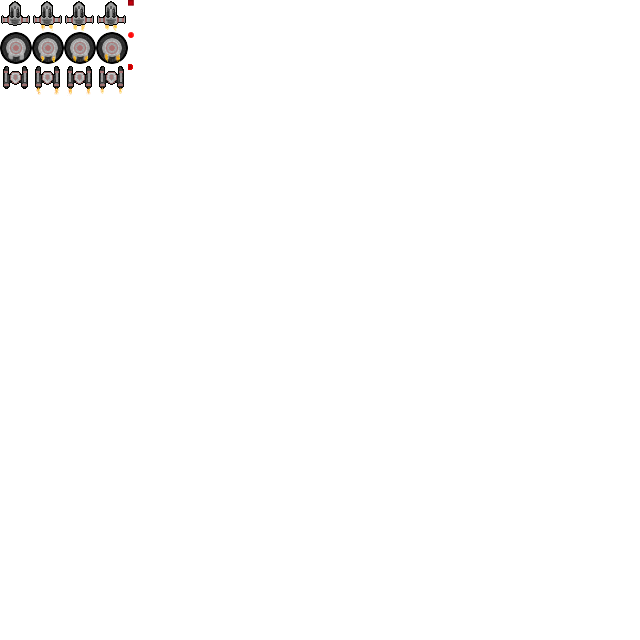
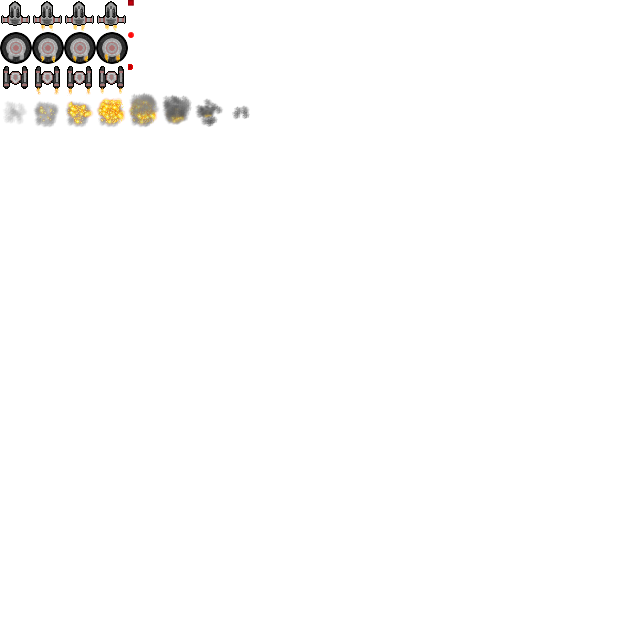
Explosions

Changed region(s): [[0.0, 0.125, 0.4062, 0.2188]]

diff --git a/projects/ld32/js/application/player.js b/projects/ld32/js/application/player.js
@@ -18,10 +18,12 @@ var Player = function(x, y) {
     
     this.frameMod = 10;
     this.curFrame = 1;
+    
+    this.dying = false;
 }
 
 Player.prototype.moveUp = function() {
-    if (this.y > 0) {
+    if (this.y > 0 && !this.dying) {
         if (this.yVelocity > 0) {
             this.yVelocity = 0;
         }
@@ -31,12 +33,10 @@ Player.prototype.moveUp = function() {
             this.yVelocity = -this.maxYVelocity;
         }
         this.y += this.yVelocity;
-    } else {
-        soundManager.play('blip');
     }
 }
 Player.prototype.moveDown = function() {
-    if (this.y < CANVAS_HEIGHT - 64) {
+    if (this.y < CANVAS_HEIGHT - 64 && !this.dying) {
         if (this.yVelocity < 0) {
             this.yVelocity = 0;
         }
@@ -46,12 +46,10 @@ Player.prototype.moveDown = function() {
             this.yVelocity = this.maxYVelocity;
         }
         this.y += this.yVelocity;
-    } else {
-        soundManager.play('blip');
     }
 }
 Player.prototype.moveLeft = function() {
-    if (this.x > 0) {
+    if (this.x > 0 && !this.dying) {
         if (this.xVelocity > 0) {
             this.xVelocity = 0;
         }
@@ -61,13 +59,11 @@ Player.prototype.moveLeft = function() {
             this.xVelocity = -this.maxXVelocity;
         }
         this.x += this.xVelocity;
-    } else {
-        soundManager.play('blip');
     }
 }
 
 Player.prototype.moveRight = function() {
-    if (this.x < CANVAS_WIDTH - 32) {
+    if (this.x < CANVAS_WIDTH - 32 && !this.dying) {
         if (this.xVelocity < 0) {
             this.xVelocity = 0;
         }
@@ -77,8 +73,6 @@ Player.prototype.moveRight = function() {
             this.xVelocity = this.maxXVelocity;
         }
         this.x += this.xVelocity;
-    } else {
-        soundManager.play('blip');
     }
 }
 
@@ -96,18 +90,33 @@ Player.prototype.draw = function(context, frame) {
     if (frame % this.frameMod == 0) {
         this.curFrame ++;
         
-        if (this.curFrame > 4) {
+        if (!this.dying && this.curFrame > 4) {
             this.curFrame = 1;
+        }
+        
+        if (this.dying && this.curFrame > 12) {
+            this.curFrame = 12;
         }
     }
     
-    if (this.yVelocity < 0) {
+    if (!this.dying && this.yVelocity < 0) {
         sprite += "-boost";
+    }
+    
+    if (this.dying) {
+        sprite += "-death";
     }
     
     if (this.curFrame > 0) {
         sprite += this.curFrame;
     }
-
-    spriteMapper.getImage(sprite).drawImage(context, this.x, this.y);
+    
+    if (!this.dying || this.curFrame <= 12) {
+        spriteMapper.getImage(sprite).drawImage(context, this.x, this.y);
+    }
+    
+    if (!this.dying && this.hp <= 0) {
+        this.dying = true;
+        this.curFrame = 0;
+    }
 }

diff --git a/projects/ld32/js/application/sprites.js b/projects/ld32/js/application/sprites.js
@@ -99,6 +99,20 @@ spriteMapper.addImage('player-boost2', 'player', 64, 64, 32, 64);
 spriteMapper.addImage('player-boost3', 'player', 96, 64, 32, 64);
 spriteMapper.addImage('player-boost4', 'player', 128, 64, 32, 64);
 
+spriteMapper.addImage('player-death', 'player', 0, 128, 32, 64);
+spriteMapper.addImage('player-death1', 'player', 32, 128, 32, 64);
+spriteMapper.addImage('player-death2', 'player', 64, 128, 32, 64);
+spriteMapper.addImage('player-death3', 'player', 96, 128, 32, 64);
+spriteMapper.addImage('player-death4', 'player', 128, 128, 32, 64);
+spriteMapper.addImage('player-death5', 'player', 160, 128, 32, 64);
+spriteMapper.addImage('player-death6', 'player', 192, 128, 32, 64);
+spriteMapper.addImage('player-death7', 'player', 224, 128, 32, 64);
+spriteMapper.addImage('player-death8', 'player', 256, 128, 32, 64);
+spriteMapper.addImage('player-death9', 'player', 288, 128, 32, 64);
+spriteMapper.addImage('player-death10', 'player', 320, 128, 32, 64);
+spriteMapper.addImage('player-death11', 'player', 352, 128, 32, 64);
+spriteMapper.addImage('player-death12', 'player', 384, 128, 32, 64);
+
 
 spriteMapper.addImage('asteroid', 'objects', 0, 0);
 spriteMapper.addImage('projectile', 'objects', 32, 0);
@@ -114,6 +128,18 @@ spriteMapper.addImage('rapidEnemy', 'enemies', 0, 64);
 spriteMapper.addImage('rapidEnemy1', 'enemies', 32, 64);
 spriteMapper.addImage('rapidEnemy2', 'enemies', 64, 64);
 spriteMapper.addImage('rapidEnemy3', 'enemies', 96, 64);
+
+spriteMapper.addImage('enemy-explosion0', 'enemies', 0, 96);
+spriteMapper.addImage('enemy-explosion1', 'enemies', 32, 96);
+spriteMapper.addImage('enemy-explosion2', 'enemies', 64, 96);
+spriteMapper.addImage('enemy-explosion3', 'enemies', 96, 96);
+spriteMapper.addImage('enemy-explosion4', 'enemies', 128, 96);
+spriteMapper.addImage('enemy-explosion5', 'enemies', 160, 96);
+spriteMapper.addImage('enemy-explosion6', 'enemies', 192, 96);
+spriteMapper.addImage('enemy-explosion7', 'enemies', 224, 96);
+spriteMapper.addImage('enemy-explosion8', 'enemies', 256, 96);
+
+
 spriteMapper.addImage('bullet1', 'enemies', 128, 0, 6, 6);
 spriteMapper.addImage('bullet2', 'enemies', 128, 32, 6, 6);
 spriteMapper.addImage('bullet3', 'enemies', 128, 64, 6, 6);

diff --git a/projects/ld32/js/application/game.js b/projects/ld32/js/application/game.js
@@ -8,6 +8,8 @@ var stars = [];
 var projectiles = [];
 var enemies = [];
 var bullets = [];
+var explosions = [];
+
 var enemySpawnTimer = 10;
 var projectileTimeout = [0, 0, 0];
 var projectileMaxTimeout = 60;
@@ -265,6 +267,10 @@ var playerRank = 0;
     }
     
     var handleAI = function() {
+        explosions.forEach(function(explosion, index) {
+            explosion.update(index);
+        })
+        
         enemies.forEach(function(enemy) {
             var chance = Math.random() * 100;
             if (chance < 1) {
@@ -342,7 +348,9 @@ var playerRank = 0;
                 if (!(p.x + 4 > e.x + 32 || p.x + 28 < e.x || p.y + 4 > e.y + 32 || p.y + 28 < e.y)) {
                     enemiesKilled[p.id] ++;
                     killProjectile(pIndex);
-                    killEnemy(eIndex);
+                    e.dying = true;
+                    var explosion = new Explosion(e.x, e.y, e.id);
+                    explosions.push(explosion);
                 }
             });
             
@@ -365,14 +373,16 @@ var playerRank = 0;
         });
         
         enemies.forEach(function(e, eIndex) {
-            if (!(e.x + 5 > player.x + 26 || e.x + 27 < player.x + 6 || e.y + 5 > player.y + 58 || e.y + 5 < player.y + 6)) {
+            if (!e.dying && !(e.x + 5 > player.x + 26 || e.x + 27 < player.x + 6 || e.y + 5 > player.y + 58 || e.y + 5 < player.y + 6)) {
                 player.hp -= 2;
                 enemiesKilled[5] ++;
-                killEnemy(eIndex);
+                e.dying = true;
+                var explosion = new Explosion(e.x, e.y, e.id);
+                explosions.push(explosion);
             }
         });
         
-        if (player.hp <= 0) {
+        if (player.hp <= 0 && player.curFrame >= 12) {
             // TODO: END GAME
         }
     }
@@ -410,6 +420,10 @@ var playerRank = 0;
         enemies.forEach(function(enemy) {
             enemy.draw(context, numRenders);
         });
+        
+        explosions.forEach(function(explosion) {
+            explosion.draw(context, numRenders);
+        })
         
         player.draw(context, numRenders);
         

diff --git a/projects/ld32/js/application/enemy.js b/projects/ld32/js/application/enemy.js
@@ -1,3 +1,5 @@
+var globalEnemyId = 0;
+
 var Enemy = function(x, y) {
     this.x = x;
     this.y = y;
@@ -6,10 +8,16 @@ var Enemy = function(x, y) {
     
     this.curFrame = 1;
     this.frameMod = 10;
+    this.dying = false;
+    
+    this.id = globalEnemyId;
+    globalEnemyId ++;
 }
 
 Enemy.prototype.move = function(index) {
-    this.y -= this.velocity;
+    if (!this.dying) {
+        this.y -= this.velocity;
+    }
     
     if (this.y < -50) {
         killEnemy(index);
@@ -17,21 +25,23 @@ Enemy.prototype.move = function(index) {
 }
 
 Enemy.prototype.shoot = function(playerX, playerY) {
-    var randX = (Math.random() * 100) - 50;
-    var randY = (Math.random() * 100) - 50;
-    var angle = Math.atan2(playerY + randX - this.y, playerX + randY - this.x) * 180 / Math.PI;
-    
-    if (this instanceof RapidFireEnemy) {
-        var bullet = new Bullet3(this.x+16, this.y+16, angle);
-        bullets.push(bullet);
-    } else if (this instanceof SpiralFireEnemy) {
-        var bullet = new Bullet2(this.x+16, this.y+16, angle);
-        bullets.push(bullet);
-    } else {
-        var bullet = new Bullet(this.x+16, this.y+16, angle);
-        bullets.push(bullet);
+    if (!this.dying) {
+        var randX = (Math.random() * 100) - 50;
+        var randY = (Math.random() * 100) - 50;
+        var angle = Math.atan2(playerY + randX - this.y, playerX + randY - this.x) * 180 / Math.PI;
+        
+        if (this instanceof RapidFireEnemy) {
+            var bullet = new Bullet3(this.x+16, this.y+16, angle);
+            bullets.push(bullet);
+        } else if (this instanceof SpiralFireEnemy) {
+            var bullet = new Bullet2(this.x+16, this.y+16, angle);
+            bullets.push(bullet);
+        } else {
+            var bullet = new Bullet(this.x+16, this.y+16, angle);
+            bullets.push(bullet);
+        }
+        enemyBulletsFired ++;
     }
-    enemyBulletsFired ++;
 }
 
 Enemy.prototype.draw = function(context, frame) {

diff --git a/projects/ld32/js/application/explosion.js b/projects/ld32/js/application/explosion.js
@@ -1,0 +1,45 @@
+var Explosion = function(x, y, enemyId) {
+    this.x = x;
+    this.y = y;
+    this.curFrame = 0;
+    this.frameMod = 10;
+    this.enemyId = enemyId;
+    this.killedEnemy = false;
+}
+
+Explosion.prototype.update = function(index) {
+    var self = this;
+    if (!this.killedEnemy && this.curFrame >= 4) {
+        enemies.forEach(function(enemy, eIndex) {
+            if (enemy.id == self.enemyId) {
+                killEnemy(eIndex);
+            }
+        });
+    }
+    if (this.curFrame >= 8) {
+        killExplosion(index);
+    }
+}
+Explosion.prototype.draw = function(context, frame) {
+    var sprite = "enemy-explosion";
+    
+    if (frame % this.frameMod == 0) {
+        this.curFrame ++;
+        
+        if (this.curFrame > 8) {
+            this.curFrame = 8;
+        }
+    }
+    
+    sprite += this.curFrame;
+    
+    if (this.curFrame <= 8) {
+        spriteMapper.getImage(sprite).drawImage(context, this.x, this.y);
+    }
+}
+
+function killExplosion(index) {
+    if (index >= 0 && index < explosions.length) {
+        explosions.splice(index, 1);
+    }
+}

diff --git a/projects/ld32/index.html b/projects/ld32/index.html
@@ -16,6 +16,7 @@
         <script src="js/application/projectile.js" type='text/javascript'></script>
         <script src="js/application/bullets.js" type='text/javascript'></script>
         <script src="js/application/enemy.js" type='text/javascript'></script>
+        <script src="js/application/explosion.js" type='text/javascript'></script>
         <script src="js/application/star.js" type='text/javascript'></script>
         <script src="js/application/player.js" type='text/javascript'></script>
         <script src="js/application/game.js" type='text/javascript'></script>
